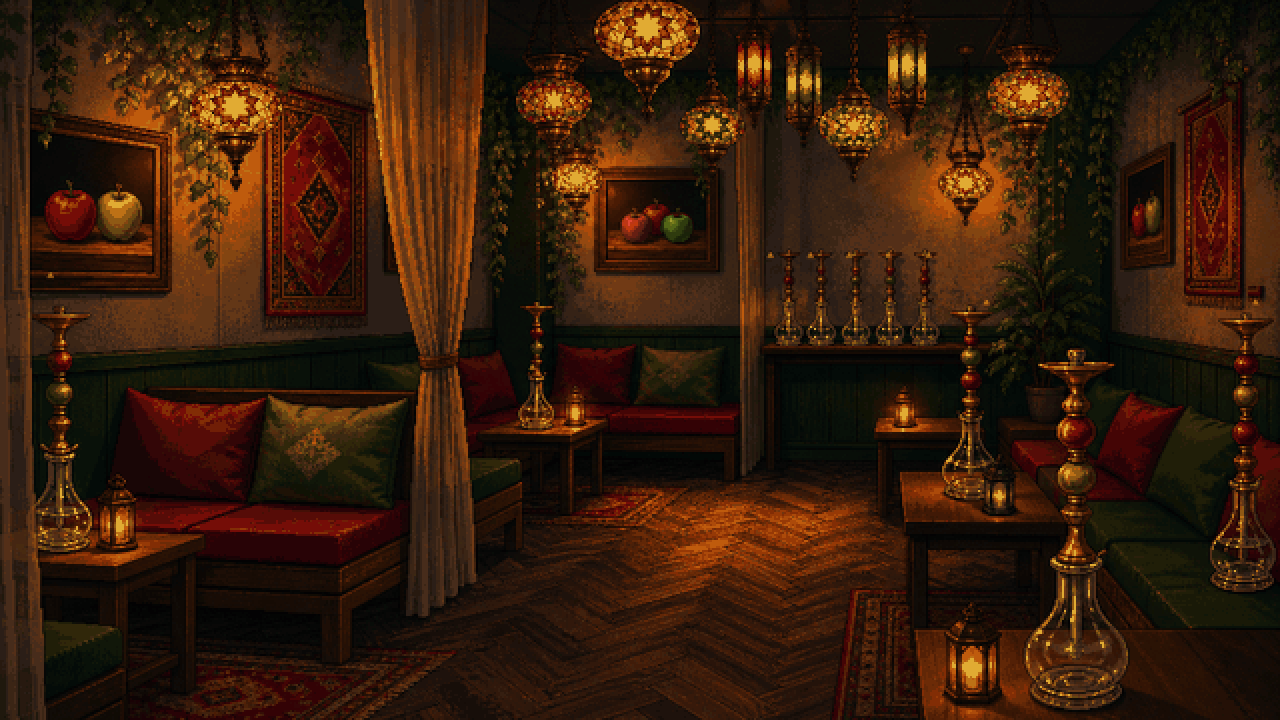
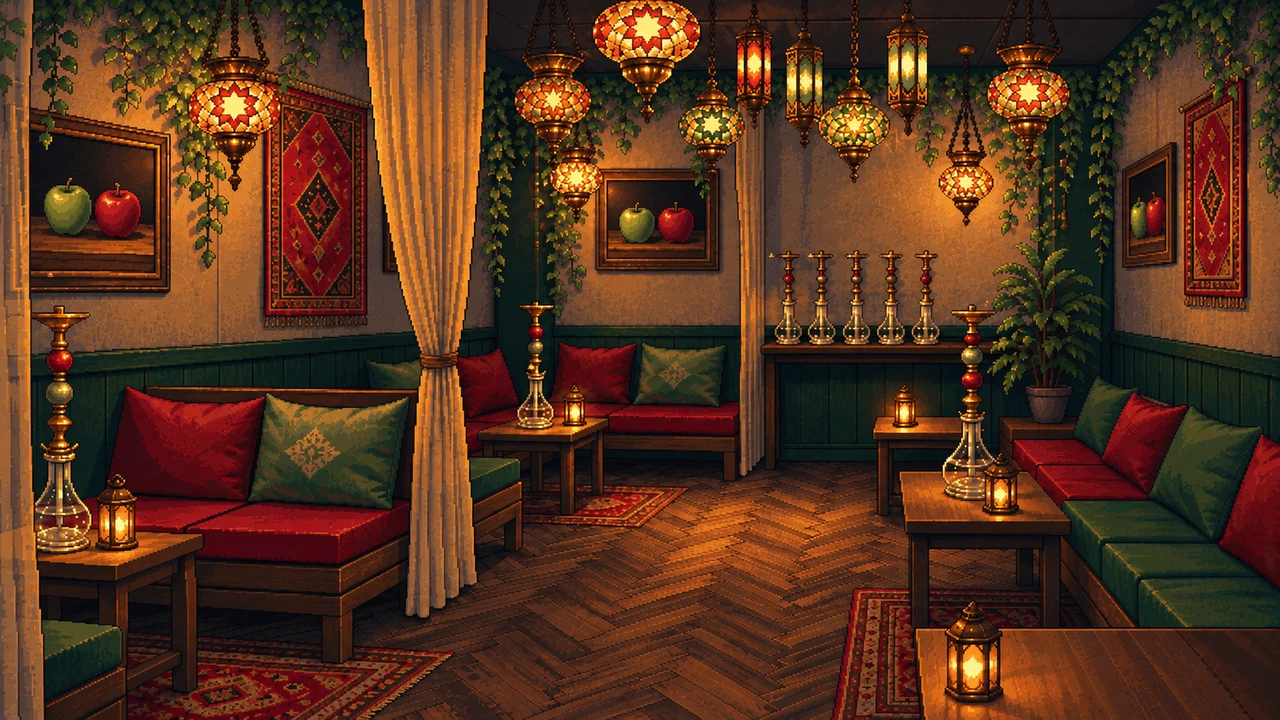
art: 採用済みEDEN内装をゲーム背景へ反映し旧台の二重合成を撤去

diff --git a/remake/js/core/scene-art.js b/remake/js/core/scene-art.js
@@ -41,12 +41,7 @@ export const SCENE_PROPS = {
     { file: "shisha_kemurikusa.png", x: 390, y: 378, h: 190, ratio: 454 / 768 },
     { file: "shisha_tonari.png", x: 180, y: 406, h: 220, ratio: 469 / 768 },
   ],
-  "bg_eden_shop.png": [
-    { file: "shisha_eden.png", x: 550, y: 428, h: 130, ratio: 522 / 768 },
-    { file: "shisha_eden.png", x: 955, y: 448, h: 170, ratio: 522 / 768 },
-    { file: "shisha_eden.png", x: 139, y: 554, h: 220, ratio: 522 / 768 },
-    { file: "shisha_eden.png", x: 1110, y: 609, h: 290, ratio: 522 / 768 },
-  ],
+  // EDENの採用背景はテーブル・展示台上のシーシャを含む。旧位置の台を重ねない。
   "bg_tonari_inside_day.png": TONARI_SCENE_PROPS,
   "bg_tonari_inside_night.png": TONARI_SCENE_PROPS,
   "peppermint.png": [

diff --git a/asset_sources/eden-interior-adoption-20261024/README.md b/asset_sources/eden-interior-adoption-20261024/README.md
@@ -1,0 +1,33 @@
+# EDEN 内装の正式採用
+
+オーナー承認：「これで採用ゲームに反映して」。
+
+## 原画・指示
+
+- [採用原画](../../docs/qa/eden-interior-concepts/eden-pixel-matched.png)（Git blob `8bf4e7dffa49aff8d8cd35eb59f04d074773a2a6`）
+- [生成指示](../../docs/qa/eden-interior-concepts/pixel-matched-prompt.txt)
+- [比較・過去候補](../../docs/qa/eden-interior-concepts/README.md)
+
+原画は先にGitHubで比較・採用した同一ファイルを参照し、重複コピーしない。
+
+## 採用内容
+
+- 窓を追加せず、現行店内の間取り、カーテン、ランプ、ソファ、暗めの暖色照明を維持。
+- 他店を参考にドットの描き方を調整。りんごの対は画面左が緑、右が赤。
+- シーシャ台はテーブル・展示台上。ソファ上には配置しない。
+- 台が描画済みのため、`remake/js/core/scene-art.js` のEDEN専用旧合成を撤去。
+- 人物の髪色、既存ロゴ、登場絵、台詞は変更しない。
+
+## ゲーム用変換
+
+採用原画1672×941をLanczosで1280×720へ一度だけ縮小。
+`assets/backgrounds/bg_eden_shop.png` と、既存 `build_images.encode` で作成した `remake/img/backgrounds/bg_eden_shop.webp` を更新。
+両方とも既存の通常Git管理画像（legacy指定）で、LFS履歴や管理方式は変更しない。新しいファイル名や目録項目は不要。
+
+## 検証
+
+- 画像のデコード・寸法1280×720・既存manifestのPNG/WebP登録を確認。
+- JavaScript構文と差分の空白を検査。
+- `adam_eden_711.mjs` の `pc-map-and-entry` / `touch-map-and-entry` / `pc-eden-visit` / `touch-eden-visit` が全て成功。
+- 入店と会話の回帰検証で、EDENが旧台を重ねず採用背景1枚で描画されることを検査。
+- PC会話・タッチ入店後のスクリーンショットを目視。

diff --git a/brand/character_profiles.md b/brand/character_profiles.md
@@ -50,7 +50,7 @@
 - **身長**: 178cm
 - **所属**: EDEN
 - **髪色の左右**: 本人から見て左半分が緑のリンゴ色、右半分が赤のリンゴ色。正面像では見る側（画面）の左が赤・右が緑になる。横顔や振り向きも本人の左右に色を固定し、画面の左右で機械的に塗り分けない。緑を青色にしない。
-- **EDENのリンゴ意匠**: ロゴ・背景・登場絵の対のリンゴと対応する装飾色は、正面のアダムに合わせて画面左が赤・右が緑。既に正しい配色、対以外のリンゴ、顔・表情・髪型・ポーズ・衣装、店名・ラベル・文字・構図は保持する。左右の基準はオーナーの最新訂正（#711）を優先する。
+- **EDENのリンゴ意匠**: 店内背景と今後制作するダブルアップルの対は、見る側（画面）の左が緑・右が赤（今回の内装採用時のオーナー訂正。旧#711の背景配色より優先）。アダム本人の髪色は上記の身体基準の左右を維持する。今回の内装採用では既存ロゴ・登場絵・人物画像は変更せず、顔・表情・髪型・ポーズ・衣装、店名・ラベル・文字も保持する。
 - **スタイル**: 「ダブルアップル特化」
   - 人生のすべてをダブルアップル（ツーアップル）に捧げており、ミリ単位の熱管理とセッティングを行う職人。
   - 「世の中のシーシャはダブルアップルか、それ以外か」というローランド的な名言を真顔で放つ、愛すべき変人。

diff --git a/docs/qa/eden-interior-concepts/README.md b/docs/qa/eden-interior-concepts/README.md
@@ -1,6 +1,6 @@
-# EDEN 内装：ドットの描き方を他店に合わせる
+# EDEN 内装：採用済みドット調整版
 
-## 最新：ドット感の調整版
+## 採用：ドット感の調整版
 
 ![ドット感の調整版](eden-pixel-matched.png)
 
@@ -35,4 +35,8 @@
 
 ## 確認・実装状況
 
-出力を目視し、基本構図・窓なし・りんごの左右・台の支持面を確認。アップロードPNGのblob SHAとローカルGitハッシュが一致。ゲーム本体の画像・設定・コードは未変更。確認用画像と説明のみのためゲームテストは対象外です。
+オーナーの「これで採用ゲームに反映して」により正式採用。原画を1280×720に縮小し、ゲーム用PNGと配信用WebPへ反映。画像内に台が含まれるため、旧背景用のシーシャ台4台の合成をEDENだけ撤去しました。旧名の背景参照は既存エイリアスを通して採用画像を表示します。
+
+確認：PC・タッチでマップからの入店と実際のアダム訪問会話（計4件）のブラウザテストが成功。画像デコード・1280×720・WebP目録登録・二重合成なしを確認し、PC会話画面とタッチ入店後画面を目視。構文チェックと差分の空白検査が成功。
+
+原画・生成指示・前案はこのフォルダに保持。採用記録は [asset_sourcesの記録](../../../asset_sources/eden-interior-adoption-20261024/README.md)。
